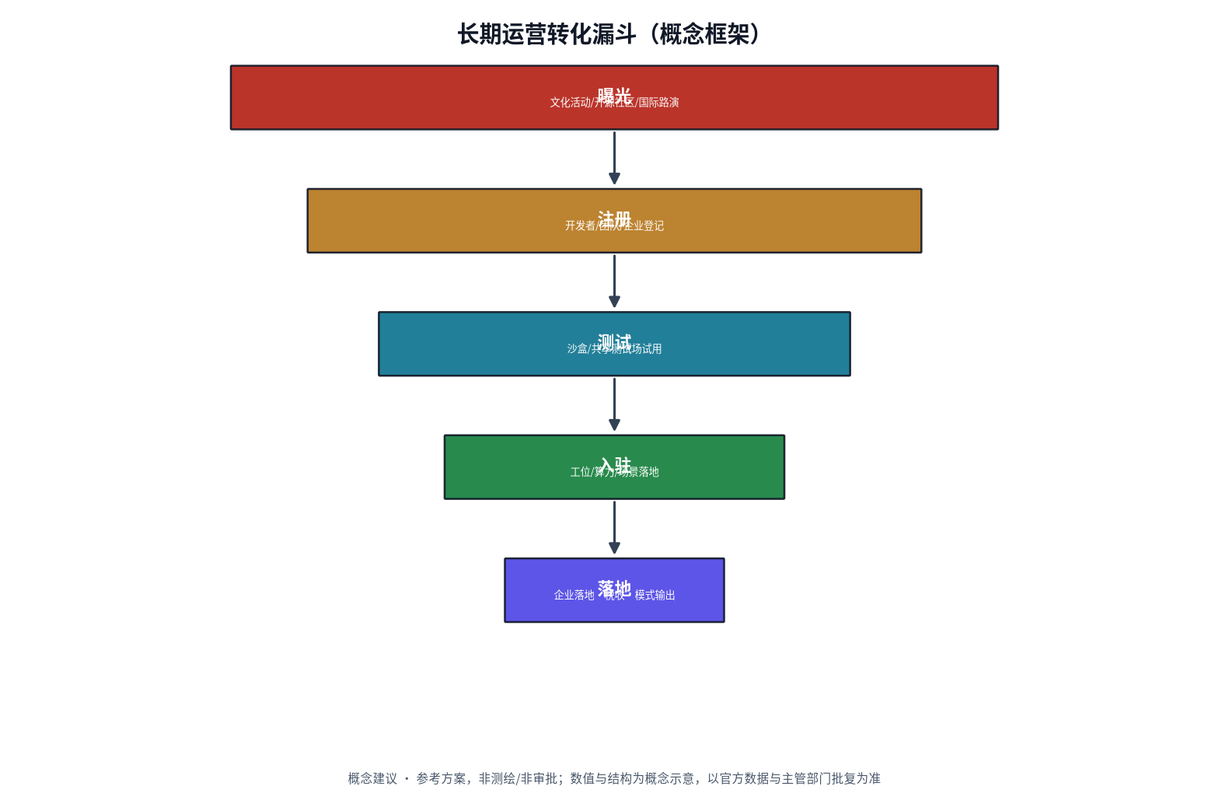
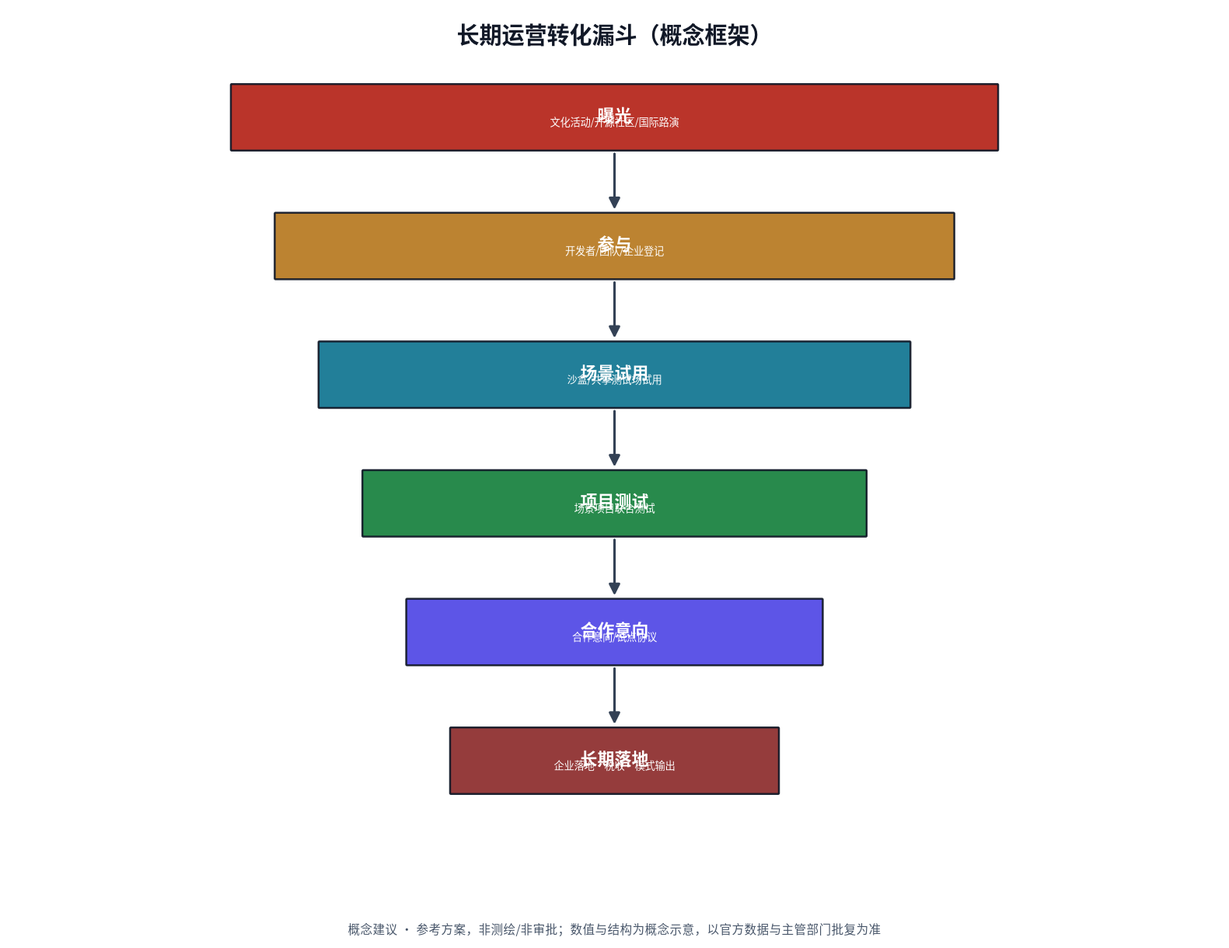
Round 10: JZ 极简实施卡空间锚定 + agent.6 运营机制补强
- JZ-01~06 由 10 列表格改为极简实施卡：每项目独立段落，含空间锚点/阶段/核心动作/责任类型/主要风险/验收方向/概念成本
- 空间锚点具体到站口/河流/遗产节点（大钟寺站13·12号线换乘/清河/京张遗址公园/众智园/原点社区/聚集区，provisional），6 项目不重复
- agent.6 治理架构补发起方/执行方/监督方；转化漏斗改 6 级（曝光→参与→场景试用→项目测试→合作意向→长期落地）；补 KPI 方向（活动参与率/场景响应时间/人工兜底率）与活动频率
- operation_funnel.png 重生成 6 级漏斗；删除 project_matrix.png 孤儿图，manifest 清理
- 保留 Round 7 骨架、算法成果、诚实边界、版权审计
- self_check: formal-review-ready / can_enter_formal_review=YES
- preflight: ok=true, 无 blockers

Changed region(s): [[0.217, 0.2185, 0.7748, 0.8429], [0.186, 0.0, 0.8058, 0.1873], [0.2789, 0.9678, 0.7128, 0.999]]

diff --git a/submissions/927420095-bot/dazhongsi-physarum-network/report/proposal.en.html b/submissions/927420095-bot/dazhongsi-physarum-network/report/proposal.en.html
@@ -398,22 +398,79 @@ code {
 <p><strong>Long-term operation (conceptual suggestion)</strong>: a three-party co-governance model (government + enterprise + community), with a suggestive funding framework (fiscal + renewal special fund + social capital + green bond, to be confirmed). This proposal does not claim to have established governance bodies or locked funding sources.</p>
 <h3>Long-Term Operation Mechanism and Conversion Funnel</h3>
 <blockquote><p>Honest statement: the annual events, developer community, governance architecture, KPIs, and conversion funnel below are all <strong>conceptual suggestions / a suggestive framework</strong>; the frequency, scale, budget, and conversion rates are illustrative, not held events, established governance bodies, or locked funding sources <sup class="evidence evidence-depth" data-evidence-kind="depth" data-evidence-value="phasing_implementation" title="Depth: phasing_implementation">Depth</sup>.</p></blockquote>
-<p><strong>Annual events (conceptual suggestion)</strong>: &quot;Jing-Zhang Railway Culture Festival&quot; (annual, public opening), &quot;Physarum Algorithm Public Workshop&quot; (quarterly, for developers and universities), &quot;Developer Conference&quot; (annual, roadshow and release); the frequency, scale, and budget framework are suggestive, with no existing organizer or date commitment.</p>
+<p><strong>Annual event framework (conceptual suggestion)</strong>: an annual Developer Conference (1×/year, roadshow and release), quarterly Scenario Open Days (4×/year, for developers/universities/the public), and monthly Community Workshops (12×/year, co-build and co-deliberate); the frequency, scale, and budget are suggestive, with no existing organizer or date commitment.</p>
 <p><strong>Developer community (conceptual suggestion)</strong>: open-source contribution guide, computing subsidy, free workstations (limited incubation period); conceptual, with specific rules and subsidy amounts to be confirmed by operators.</p>
-<p><strong>Governance architecture (conceptual suggestion)</strong>: three-party co-governance (government + enterprise + community), with a &quot;consensus + expert advisory&quot; decision mechanism and a suggestive funding framework (fiscal + renewal special fund + social capital + green bond, to be confirmed).</p>
-<p><strong>KPI (conceptual framework)</strong>: near-term (developer count, incubated teams), mid-term (enterprise landing, tax increment), long-term (brand influence, model output); specific values are not preset.</p>
-<p><strong>Conversion funnel (conceptual framework)</strong>: exposure → registration → testing → entry → landing, with each level&#x27;s conversion rate as a conceptual illustration (not measured).</p>
+<p><strong>Governance architecture (conceptual suggestion)</strong>: initiator = government (type), executor = professional operating entity (type), supervisor = community + expert advisory (type), in three-party co-governance; the decision mechanism is &quot;consensus + expert advisory&quot;, with a suggestive funding framework (fiscal + renewal special fund + social capital + green bond, to be confirmed).</p>
+<p><strong>KPI (conceptual framework, directional)</strong>: event participation rate (baseline to be set), scenario response time, manual fallback rate; mid-term (enterprise landing, tax increment), long-term (brand influence, model output); specific values are not preset.</p>
+<p><strong>Conversion funnel (conceptual framework)</strong>: exposure → participation → scenario trial → project testing → cooperation intent → long-term landing, with each level&#x27;s conversion rate as a conceptual illustration (not measured).</p>
 <figure class="proposal-figure"><img src="../assets/figures/operation_funnel.png" alt="Long-term operation conversion funnel (conceptual framework)"><figcaption>Long-term operation conversion funnel (conceptual framework)</figcaption></figure>
-<p>The figure above visualizes the five-level &quot;exposure — registration — testing — entry — landing&quot; conversion relationship; the conversion rates are conceptual illustrations; the quantitative baselines for KPIs and conversion rates are determined only after operational-stage measurement, and this proposal presets no values.</p>
+<p>The figure above visualizes the six-level &quot;exposure — participation — scenario trial — project testing — cooperation intent — long-term landing&quot; conversion relationship; the conversion rates are conceptual illustrations; the quantitative baselines for KPIs and conversion rates are determined only after operational-stage measurement, and this proposal presets no values.</p>
 <h2>Compliance Matrix Overview (agent.1–6 outcome index)</h2>
 <p>The table summarizes where each agent.1–6 dimension outcome lands in this proposal (because submission validation permits only proposal.md/en.md to carry the narrative, each dimension outcome is folded into these sections rather than separate <code>docs/</code> files) <sup class="evidence evidence-depth" data-evidence-kind="depth" data-evidence-value="overall_spatial_structure" title="Depth: overall_spatial_structure">Depth</sup>.</p>
 <div class="proposal-table"><table><thead><tr><th>Dimension</th><th>Outcome</th><th>Section</th></tr></thead><tbody><tr><td>agent.1 Brand &amp; identity</td><td>Name/palette/typography/logo concept/prohibited uses</td><td>&quot;Brand Identity: 智脉共生&quot;</td></tr><tr><td>agent.2 Positioning &amp; functions</td><td>Three positionings / five functions / three-area two-wing</td><td>&quot;Three Positionings, Five Functions, and Three-Area Two-Wing Coordination&quot;</td></tr><tr><td>agent.3 Cases &amp; ecosystem map</td><td>5 smart-city + 5 transport-renewal real cases (merged into a one-page comparison table)</td><td>&quot;Global Benchmark Cases&quot;</td></tr><tr><td>agent.4 Test scenarios</td><td>3 test validation scenarios (TOD/stormwater/community)</td><td>&quot;Test Validation Scenarios&quot;</td></tr><tr><td>agent.5 Landmarks/components/recognition</td><td>3 landmarks + component system + recognition mechanism</td><td>&quot;Landmarks, Component System, and Recognition Mechanism&quot;</td></tr><tr><td>agent.6 Culture/international/events/operation</td><td>Bilingual wayfinding + elevator pitch + annual events + three-party co-governance</td><td>&quot;Cultural Wayfinding, International Narrative, Annual Events, and Long-term Operation&quot;</td></tr><tr><td>agent.7 Accessibility enhancement (Round 5)</td><td>Four-layer architecture / data schema / routing &amp; dispatch engine / deployment framework</td><td>&quot;Accessible Smart Governance and Navigation Integration Outlook&quot; + Appendices A/B</td></tr></tbody></table></div>
-<h2>Six Renewal-Project Implementation Cards (9 fields; conceptual suggestion)</h2>
-<blockquote><p>This card is a conceptual suggestion / reference proposal / for professional teams&#x27; further study, and does not constitute a formal engineering document.</p></blockquote>
-<p>The six cards below complete the 9 project-management fields (responsible-entity type, partner, precondition, stage, resource level, risk, reversible measure, acceptance metric, stop condition). Responsible entities and partners are written only as <strong>entity types</strong>, not fabricated names; stage/resource/risk are suggestive <sup class="evidence evidence-depth" data-evidence-kind="depth" data-evidence-value="renewal_project_list" title="Depth: renewal_project_list">Depth</sup> <sup class="evidence evidence-depth" data-evidence-kind="depth" data-evidence-value="phasing_implementation" title="Depth: phasing_implementation">Depth</sup>.</p>
-<div class="proposal-table"><table><thead><tr><th>Project</th><th>Responsible type</th><th>Partner (type)</th><th>Precondition</th><th>Stage</th><th>Resource</th><th>Risk</th><th>Reversible measure</th><th>Acceptance metric</th><th>Stop condition</th></tr></thead><tbody><tr><td>JZ-01 Slow-gap stitching</td><td>Government (district transport) + park operator</td><td>Municipal construction unit (conceptual)</td><td>Road redline, under-bridge permit, traffic review</td><td>Concept → scheme design</td><td>Medium</td><td>Ownership dispute, policy change</td><td>Temporary connectors removable, site restored</td><td>Slow connectivity + accessibility per GB 50763-2012</td><td>Pause if under-bridge ownership cannot be settled</td></tr><tr><td>JZ-02 Qinghe innovation interface</td><td>Government (district water) + park</td><td>Hydraulic design unit (conceptual)</td><td>River blue line, flood evaluation, ecological permit</td><td>Concept → scheme design</td><td>Medium</td><td>Flood conditions, cost overrun</td><td>Waterfront facilities removable, original revetment kept</td><td>Blue-green connectivity + stormwater resilience</td><td>Exit if flood conditions are unmet</td></tr><tr><td>JZ-03 Campus-facing conversion street</td><td>Government (district sci-tech) + university</td><td>University + social capital (conceptual)</td><td>Campus boundary, ownership, ground-floor approval</td><td>Concept → scheme design</td><td>Medium</td><td>Ownership dispute, heritage dispute</td><td>Ground-floor use reversible, no structural change</td><td>Conversion space activated + ground-floor cleared</td><td>Pause if ownership dispute is unresolved</td></tr><tr><td>JZ-04 Dazhongsi four-quadrant connectivity</td><td>State-owned (rail operator) + government</td><td>Rail company + municipal design unit (conceptual)</td><td>Station integration plan, utility relocation, fire review</td><td>Concept → engineering deepening</td><td>High</td><td>Approval uncertainty, utility conflict</td><td>Quadrant-by-quadrant phased, unimplemented quadrants kept</td><td>Four-quadrant connectivity + accessible interchange</td><td>Postpone if station timing mismatches</td></tr><tr><td>JZ-05 Edge-computing node</td><td>Social capital + government (district sci-tech)</td><td>Computing operator (conceptual)</td><td>Energy, computing, security, operator confirmed</td><td>Concept → operation</td><td>High</td><td>Technical failure, compliance</td><td>Devices removable, space restored to public use</td><td>Computing open + security audit passed</td><td>Exit if no operator</td></tr><tr><td>JZ-06 Physarum network deepening &amp; recalculation</td><td>Government + university (designer)</td><td>University research team (conceptual)</td><td>Official boundary, road redline, real-coordinate alignment</td><td>Concept → ongoing research</td><td>Low</td><td>Official data long missing</td><td>Not landed as engineering; stays research-scope</td><td>Full recalculation once official data arrives</td><td>Keep &quot;to be confirmed&quot; if official data long unpublished</td></tr></tbody></table></div>
-<figure class="proposal-figure"><img src="../assets/figures/project_matrix.png" alt="Renewal-project full-field matrix (6 projects × 9 fields, conceptual)"><figcaption>Renewal-project full-field matrix (6 projects × 9 fields, conceptual)</figcaption></figure>
-<p>The figure above visualizes the nine-field matrix, enabling quick review of each project&#x27;s responsible entity, risk, reversible measure, and stop condition; the fields are all conceptual suggestions, and responsible entities are written only as entity types, never fabricated names <sup class="evidence evidence-depth" data-evidence-kind="depth" data-evidence-value="renewal_project_list" title="Depth: renewal_project_list">Depth</sup>.</p>
+<h2>Six Renewal-Project Implementation Cards (minimal cards; conceptual suggestion)</h2>
+<blockquote><p>These cards are conceptual suggestions / reference proposals and do not constitute a formal engineering document; responsible entities are written only as <strong>entity types</strong>, never fabricated names; road/station/node names are provisional conceptual placement, to be verified against official data.</p></blockquote>
+<p>The six cards below give each project&#x27;s <strong>spatial anchor</strong> (which road/station/node it sits on), stage, core action, responsible type, main risk, acceptance direction, and conceptual cost level; all are suggestive, subject to the regulatory plan and the competent authority&#x27;s approval <sup class="evidence evidence-depth" data-evidence-kind="depth" data-evidence-value="renewal_project_list" title="Depth: renewal_project_list">Depth</sup> <sup class="evidence evidence-depth" data-evidence-kind="depth" data-evidence-value="phasing_implementation" title="Depth: phasing_implementation">Depth</sup>.</p>
+<p><strong>JZ-01 Jing-Zhang Heritage Park slow-gap stitching</strong></p>
+<ul>
+<li>Spatial anchor: both sides of the Jing-Zhang Railway Heritage Park (Phase I), the Jing-Zhang Railway × slow-loop crossing segment (provisional)</li>
+<li>Stage: near-term (pilot)</li>
+<li>Core action: stitch slow-travel gaps; add accessible ramps and bilingual wayfinding; restore a continuous walking path</li>
+<li>Responsible type: street coordination + park operator (type only, no specific names)</li>
+<li>Main risk: multiple property interfaces (railway/park/municipal) require further verification</li>
+<li>Acceptance direction: continuous-walking accessibility improvement, assessed once a current-state baseline is set</li>
+<li>Conceptual cost: medium (conceptual estimate only)</li>
+</ul>
+<p><strong>JZ-02 Zhongzhiyuan Qinghe innovation interface</strong></p>
+<ul>
+<li>Spatial anchor: Zhongzhiyuan&#x27;s Qinghe riverfront segment (north wing, south of the Qinghe blue line; provisional)</li>
+<li>Stage: mid-term</li>
+<li>Core action: waterfront blue-green connection + low-impact-development stormwater system + flood-resilience retrofit</li>
+<li>Responsible type: district water authority + park (type only, no specific names)</li>
+<li>Main risk: exit if the river blue line or flood conditions are unmet</li>
+<li>Acceptance direction: blue-green corridor connected + stormwater-resilience targets met, once baseline is set</li>
+<li>Conceptual cost: medium (conceptual estimate only)</li>
+</ul>
+<p><strong>JZ-03 Yuan Dian community campus-facing conversion street</strong></p>
+<ul>
+<li>Spatial anchor: the Beijing AI Yuan Dian Community campus–park interface (central zone; provisional)</li>
+<li>Stage: near-term</li>
+<li>Core action: activate ground-floor programs + bring conversion space into use</li>
+<li>Responsible type: university + district sci-tech authority (type only, no specific names)</li>
+<li>Main risk: pause if campus-boundary or ground-floor ownership disputes are unresolved</li>
+<li>Acceptance direction: conversion space activated + ground-floor ownership cleared</li>
+<li>Conceptual cost: medium (conceptual estimate only)</li>
+</ul>
+<p><strong>JZ-04 Dazhongsi Station four-quadrant walking connectivity</strong></p>
+<ul>
+<li>Spatial anchor: the Dazhongsi Station Line 13 / Line 12 interchange node, four quadrants (station catchment)</li>
+<li>Stage: mid-term</li>
+<li>Core action: four-quadrant walking connection + accessible interchange + station integration</li>
+<li>Responsible type: rail operator + district transport authority (type only, no specific names)</li>
+<li>Main risk: station retrofit timing and municipal utility relocation uncertainty</li>
+<li>Acceptance direction: four-quadrant walking connection + accessible interchange, once baseline is set</li>
+<li>Conceptual cost: high (conceptual estimate only)</li>
+</ul>
+<p><strong>JZ-05 AI public service and edge-computing node</strong></p>
+<ul>
+<li>Spatial anchor: the Dazhongsi AI Industry Cluster gateway (south zone, adjacent to Dazhongsi Station; provisional)</li>
+<li>Stage: long-term (governance)</li>
+<li>Core action: deploy edge-computing nodes, open public services, pass security compliance audit</li>
+<li>Responsible type: district sci-tech authority + operator (type only, no specific names)</li>
+<li>Main risk: exit if energy/computing/security/operator is absent</li>
+<li>Acceptance direction: computing service open + security compliance audit passed</li>
+<li>Conceptual cost: high (conceptual estimate only)</li>
+</ul>
+<p><strong>JZ-06 Physarum network deepening and on-site recalculation</strong></p>
+<ul>
+<li>Spatial anchor: along the conceptual network&#x27;s main vein ROAD-001 (site-wide, pending official boundary and road-redline alignment)</li>
+<li>Stage: long-term (ongoing research)</li>
+<li>Core action: full recalculation and layer update once official data arrives</li>
+<li>Responsible type: designer + university (type only, no specific names)</li>
+<li>Main risk: official data long missing; keep a &quot;to be confirmed&quot; caveat</li>
+<li>Acceptance direction: full recalculation passed once official data arrives</li>
+<li>Conceptual cost: low / unknown (research-scope; conceptual estimate only)</li>
+</ul>
 <h2>Rights and Source Audit Table (source &amp; license)</h2>
 <p>The table maps this proposal&#x27;s assets to source and license status; licenses are publicly verifiable common licenses, subject to the asset&#x27;s original text <sup class="evidence evidence-source" data-evidence-kind="source" data-evidence-value="SITE-PACKAGE" title="Source: SITE-PACKAGE">Source</sup>.</p>
 <div class="proposal-table"><table><thead><tr><th>Asset</th><th>Type</th><th>Source</th><th>License</th><th>Registry status</th></tr></thead><tbody><tr><td>Noto Sans SC (Source Han Sans) subset</td><td>Font</td><td>Google Fonts / OFL</td><td>OFL 1.1</td><td>Formal (embedded as base64, no remote dependency)</td></tr><tr><td>OpenStreetMap network/nodes</td><td>Map data</td><td>openstreetmap.org / Overpass API</td><td>ODbL</td><td>Background (trust C, &quot;OSM © contributors&quot;)</td></tr><tr><td>pymoo (NSGA-II)</td><td>Code</td><td>pymoo 0.6.2</td><td>Apache-2.0 (referenced, unmodified)</td><td>Formal</td></tr><tr><td>NetworkX</td><td>Code</td><td>networkx 3.6.1</td><td>BSD-3-Clause</td><td>Formal</td></tr><tr><td>Self-developed Physarum/objective code</td><td>Code</td><td>Author</td><td>MIT (to confirm before declaration)</td><td>Formal</td></tr><tr><td>Tero et al. 2010</td><td>Literature</td><td>Science 327:439–442, DOI 10.1126/science.1177894</td><td>Citation-compliant (not full-text reproduction)</td><td>Formal</td></tr><tr><td>Icons/illustrations</td><td>Image</td><td>Self-generated (matplotlib)</td><td>Self-generated, no third-party authorization</td><td>Formal</td></tr><tr><td>Accessibility framework code (routing_engine / dispatch_service)</td><td>Code</td><td>Author (concept prototype)</td><td>MIT (to confirm)</td><td>Formal</td></tr><tr><td>Accessibility feature schema + node overlay</td><td>Data</td><td>Derived from <code>verified_nodes.json</code></td><td>ODbL (underlying OSM); overlay marked provisional</td><td>Background (conceptual)</td></tr><tr><td>Accessibility penalty coefficients / perception parameters</td><td>Parameters</td><td>Conceptual suggestion values (not measured)</td><td>N/A</td><td>Conceptual suggestion</td></tr></tbody></table></div>

diff --git a/submissions/927420095-bot/dazhongsi-physarum-network/report/proposal.html b/submissions/927420095-bot/dazhongsi-physarum-network/report/proposal.html
@@ -398,22 +398,79 @@ code {
 <p><strong>长期运营（概念建议）</strong>：三方共治模型（政府 + 企业 + 社区），资金来源框架为建议性（财政 + 更新专项资金 + 社会资本 + 绿色债券，待确认）。本方案不声称已建立治理主体或锁定资金来源。</p>
 <h3>长期运营机制与转化漏斗</h3>
 <blockquote><p>诚实声明：以下年度活动、开发者社区、治理架构、KPI 与转化漏斗均为<strong>概念建议 / 建议性框架</strong>，频率、规模、预算与转化率均为示意，非已举办活动、非已建立治理主体或锁定资金来源 <sup class="evidence evidence-depth" data-evidence-kind="depth" data-evidence-value="phasing_implementation" title="深度：phasing_implementation">深度</sup>。</p></blockquote>
-<p><strong>年度活动（概念建议）</strong>：「京张铁路文化节」（年度，公众开放）、「黏菌算法公开工作坊」（季度，面向开发者与高校）、「开发者大会」（年度，路演与发布）；频率、规模与预算框架为建议性，无既有主办方或日期承诺。</p>
+<p><strong>年度活动框架（概念建议）</strong>：年度开发者大会（1 次/年，路演与发布）、季度场景开放日（4 次/年，面向开发者/高校/公众）、月度社区工作坊（12 次/年，共建共议）；频率、规模与预算为建议性，无既有主办方或日期承诺。</p>
 <p><strong>开发者社区（概念建议）</strong>：开源贡献指南、算力补贴、免费工位（限定孵化期）；为概念建议，具体规则与补贴额度待运营主体确认。</p>
-<p><strong>治理架构（概念建议）</strong>：三方共治（政府 + 企业 + 社区），决策机制为「共识 + 专家顾问」，资金来源框架为建议性（财政 + 更新专项资金 + 社会资本 + 绿色债券，待确认）。</p>
-<p><strong>KPI（概念框架）</strong>：近期（开发者数、孵化团队数）、中期（企业落地、税收增量）、远期（品牌影响、模式输出）；具体指标值不预设。</p>
-<p><strong>转化漏斗（概念框架）</strong>：曝光 → 注册 → 测试 → 入驻 → 落地，每级转化率为概念示意（非实测）。</p>
+<p><strong>治理架构（概念建议）</strong>：发起方为政府（类型）、执行方为专业运营主体（类型）、监督方为社区与专家顾问（类型），三方共治；决策机制为「共识 + 专家顾问」，资金来源框架为建议性（财政 + 更新专项资金 + 社会资本 + 绿色债券，待确认）。</p>
+<p><strong>KPI（概念框架，方向性）</strong>：活动参与率（待基线）、场景响应时间、人工兜底率；中期（企业落地、税收增量）、远期（品牌影响、模式输出）；具体指标值不预设。</p>
+<p><strong>转化漏斗（概念框架）</strong>：曝光 → 参与 → 场景试用 → 项目测试 → 合作意向 → 长期落地，每级转化率为概念示意（非实测）。</p>
 <figure class="proposal-figure"><img src="../assets/figures/operation_funnel.png" alt="长期运营转化漏斗图（概念框架）"><figcaption>长期运营转化漏斗图（概念框架）</figcaption></figure>
-<p>上图把「曝光—注册—测试—入驻—落地」五级转化关系可视化，转化率为概念示意；KPI 与转化率的量化基线待运营阶段实测后确定，本方案不预设数值。</p>
+<p>上图把「曝光—参与—场景试用—项目测试—合作意向—长期落地」六级转化关系可视化，转化率为概念示意；KPI 与转化率的量化基线待运营阶段实测后确定，本方案不预设数值。</p>
 <h2>合规矩阵总览（agent.1–6 成果索引）</h2>
 <p>下表汇总 agent.1–6 各维度专属成果在本提案中的落点（因提交包校验仅允许 proposal.md/en.md 承载正文，故各维度成果折叠为本节各章节，而非独立 <code>docs/</code> 文件）<sup class="evidence evidence-depth" data-evidence-kind="depth" data-evidence-value="overall_spatial_structure" title="深度：overall_spatial_structure">深度</sup>。</p>
 <div class="proposal-table"><table><thead><tr><th>维度</th><th>专属成果</th><th>落点章节</th></tr></thead><tbody><tr><td>agent.1 品牌与识别</td><td>品牌名/色板/字体/Logo 概念/禁止用法</td><td>「品牌识别：智脉共生」</td></tr><tr><td>agent.2 定位与功能</td><td>三大定位/五大功能/三区两翼</td><td>「三大定位、五大功能与三区两翼协同」</td></tr><tr><td>agent.3 案例与生态图谱</td><td>5 智慧城市类 + 5 交通更新类真实案例（合并为一页对照表）</td><td>「全球标杆案例借鉴」</td></tr><tr><td>agent.4 测试场景</td><td>3 个测试验证场景（TOD/雨洪/社区）</td><td>「测试验证场景」</td></tr><tr><td>agent.5 地标/组件/荣誉</td><td>3 地标 + 组件系统 + 荣誉机制</td><td>「地标、组件系统与荣誉机制」</td></tr><tr><td>agent.6 文化/国际/活动/运营</td><td>双语导视 + elevator pitch + 年度活动 + 三方共治</td><td>「文化导视、国际叙事、年度活动与长期运营」</td></tr><tr><td>agent.7 无障碍增强（Round 5）</td><td>四层架构 / 数据 Schema / 路由与派单引擎 / 部署框架</td><td>「无障碍智能治理与导航集成展望」+ 附录 A/B</td></tr></tbody></table></div>
-<h2>六张更新项目实施卡（9 字段，概念建议）</h2>
-<blockquote><p>本卡片为概念建议 / 参考方案 / 可供专业团队深化研究，不构成正式工程文件。</p></blockquote>
-<p>以下 6 张实施卡补全项目管理 9 字段（责任主体类型、合作方、前置条件、阶段、资源等级、风险、可逆措施、验收指标、停止条件）。责任主体与合作方仅写<strong>单位类型</strong>，不编造具体单位名称；阶段/资源/风险为建议性 <sup class="evidence evidence-depth" data-evidence-kind="depth" data-evidence-value="renewal_project_list" title="深度：renewal_project_list">深度</sup> <sup class="evidence evidence-depth" data-evidence-kind="depth" data-evidence-value="phasing_implementation" title="深度：phasing_implementation">深度</sup>。</p>
-<div class="proposal-table"><table><thead><tr><th>项目</th><th>责任主体类型</th><th>合作方（类型）</th><th>前置条件</th><th>阶段</th><th>资源等级</th><th>风险</th><th>可逆措施</th><th>验收指标</th><th>停止条件</th></tr></thead><tbody><tr><td>JZ-01 慢行断点缝合</td><td>政府（区交通委）+ 公园管理单位</td><td>市属市政建设单位（概念建议）</td><td>道路红线、桥下空间许可、交通复核</td><td>概念研究→方案设计</td><td>中</td><td>权属争议、政策变动</td><td>临时连接设施可拆除，恢复原状</td><td>慢行连通 + 无障碍达标（GB 50763-2012）</td><td>桥下空间权属无法落定即暂停</td></tr><tr><td>JZ-02 清河创新界面</td><td>政府（区水务局）+ 园区</td><td>水利设计单位（概念建议）</td><td>河道蓝线、防洪评价、生态许可</td><td>概念研究→方案设计</td><td>中</td><td>防洪条件、资金超支</td><td>滨水设施可拆除，保留原始驳岸</td><td>蓝绿连通 + 雨洪韧性达标</td><td>防洪条件不满足即退出</td></tr><tr><td>JZ-03 近校成果转化街</td><td>政府（区科信局）+ 高校</td><td>高校 + 社会资本（概念建议）</td><td>校区边界、权属、首层业态审批</td><td>概念研究→方案设计</td><td>中</td><td>权属争议、遗产争议</td><td>首层业态可恢复，不改变建筑结构</td><td>转化空间启用 + 首层清权</td><td>权属争议未决即暂停</td></tr><tr><td>JZ-04 大钟寺站四象限连通</td><td>国企（轨道运营单位）+ 政府</td><td>轨道公司 + 市政设计单位（概念建议）</td><td>站点一体化方案、管线迁改、消防审查</td><td>概念研究→工程深化</td><td>高</td><td>审批不确定、管线冲突</td><td>分象限渐进实施，未实施象限保留现状</td><td>四象限连通 + 无障碍换乘</td><td>站点改造时序不匹配即顺延</td></tr><tr><td>JZ-05 端侧算力节点</td><td>社会资本 + 政府（区科信局）</td><td>算力运营主体（概念建议）</td><td>能源、算力、安全、运营主体确认</td><td>概念研究→运营</td><td>高</td><td>技术失效、安全合规</td><td>算力设备可拆除，空间恢复公共用途</td><td>算力开放 + 安全审计通过</td><td>运营主体缺位即退出</td></tr><tr><td>JZ-06 黏菌路网深化复算</td><td>政府 + 高校（设计方）</td><td>高校科研团队（概念建议）</td><td>官方边界、道路红线、真实坐标对齐</td><td>概念研究→持续研究</td><td>低</td><td>官方数据长期缺失</td><td>不落地为工程，保持研究口径</td><td>官方数据到位后全量复算</td><td>官方数据长期未发布即保持「待确认」</td></tr></tbody></table></div>
-<figure class="proposal-figure"><img src="../assets/figures/project_matrix.png" alt="更新项目完整字段矩阵图（6 项目 × 9 字段，概念）"><figcaption>更新项目完整字段矩阵图（6 项目 × 9 字段，概念）</figcaption></figure>
-<p>上图把上表 9 字段矩阵可视化，便于快速审阅各项目的责任主体、风险、可逆措施与停止条件；字段内容均为概念建议，责任主体仅写单位类型，不编造具体单位名称 <sup class="evidence evidence-depth" data-evidence-kind="depth" data-evidence-value="renewal_project_list" title="深度：renewal_project_list">深度</sup>。</p>
+<h2>六张更新项目实施卡（极简实施卡，概念建议）</h2>
+<blockquote><p>本卡片为概念建议 / 参考方案，不构成正式工程文件；责任主体只写<strong>单位类型</strong>，不编造具体单位名称；道路/站口/节点名称均为 provisional 概念落位，待官方数据核实。</p></blockquote>
+<p>以下 6 张实施卡给出每个项目的<strong>空间锚点</strong>（落在哪条路/站口/节点）、阶段、核心动作、责任类型、主要风险、验收方向与概念成本等级；均为建议性，具体以控规与主管部门批复为准 <sup class="evidence evidence-depth" data-evidence-kind="depth" data-evidence-value="renewal_project_list" title="深度：renewal_project_list">深度</sup> <sup class="evidence evidence-depth" data-evidence-kind="depth" data-evidence-value="phasing_implementation" title="深度：phasing_implementation">深度</sup>。</p>
+<p><strong>JZ-01 京张遗址公园慢行断点缝合</strong></p>
+<ul>
+<li>空间锚点：京张铁路遗址公园一期两侧（京张铁路与慢行环交叉段，provisional）</li>
+<li>阶段：近期（试点）</li>
+<li>核心动作：缝合慢行断点，增设无障碍坡道与双语导视，恢复连续步行路径</li>
+<li>责任类型：街道协调 + 公园管理单位（类型，不写具体单位）</li>
+<li>主要风险：涉及铁路/公园/市政多产权界面，需进一步核实</li>
+<li>验收方向：连续步行无障碍性改善，待现状基线确定后评估</li>
+<li>概念成本：中（conceptual estimate only）</li>
+</ul>
+<p><strong>JZ-02 众智园清河创新界面</strong></p>
+<ul>
+<li>空间锚点：众智园临清河段（北翼，清河蓝线南侧，provisional）</li>
+<li>阶段：中期</li>
+<li>核心动作：滨水蓝绿贯通 + 低影响开发雨水系统 + 雨洪韧性改造</li>
+<li>责任类型：区水务局 + 园区（类型，不写具体单位）</li>
+<li>主要风险：河道蓝线与防洪条件不满足即退出</li>
+<li>验收方向：蓝绿廊道连通 + 雨洪韧性指标达标，待基线确定</li>
+<li>概念成本：中（conceptual estimate only）</li>
+</ul>
+<p><strong>JZ-03 原点社区近校成果转化街</strong></p>
+<ul>
+<li>空间锚点：北京AI原点社区校区-园区界面（中区，provisional）</li>
+<li>阶段：近期</li>
+<li>核心动作：首层业态活化 + 成果转化空间启用</li>
+<li>责任类型：高校 + 区科信局（类型，不写具体单位）</li>
+<li>主要风险：校区边界与首层权属争议未决则暂停</li>
+<li>验收方向：转化空间启用 + 首层业态清权</li>
+<li>概念成本：中（conceptual estimate only）</li>
+</ul>
+<p><strong>JZ-04 大钟寺站四象限步行连通</strong></p>
+<ul>
+<li>空间锚点：大钟寺站 13号线/12号线换乘节点四象限（站点辐射区）</li>
+<li>阶段：中期</li>
+<li>核心动作：四象限步行连通 + 无障碍换乘 + 站点一体化</li>
+<li>责任类型：轨道运营单位 + 区交通委（类型，不写具体单位）</li>
+<li>主要风险：站点改造时序与市政管线迁改不确定性</li>
+<li>验收方向：四象限步行连通 + 无障碍换乘达标，待基线确定</li>
+<li>概念成本：高（conceptual estimate only）</li>
+</ul>
+<p><strong>JZ-05 AI公共服务与端侧算力节点</strong></p>
+<ul>
+<li>空间锚点：大钟寺AI产业聚集区门户（南区，邻近大钟寺站，provisional）</li>
+<li>阶段：长期（治理）</li>
+<li>核心动作：部署端侧算力节点，开放公共服务，安全合规审计</li>
+<li>责任类型：区科信局 + 运营主体（类型，不写具体单位）</li>
+<li>主要风险：能源/算力/安全/运营主体缺位则退出</li>
+<li>验收方向：算力服务开放 + 安全合规审计通过</li>
+<li>概念成本：高（conceptual estimate only）</li>
+</ul>
+<p><strong>JZ-06 黏菌路网概念深化与真实场地复算</strong></p>
+<ul>
+<li>空间锚点：概念路网主静脉 ROAD-001 沿线（全场，待官方边界与道路红线对齐）</li>
+<li>阶段：长期（持续研究）</li>
+<li>核心动作：官方数据到位后全量复算并更新图层</li>
+<li>责任类型：设计方 + 高校（类型，不写具体单位）</li>
+<li>主要风险：官方数据长期缺失，保持「待确认」口径</li>
+<li>验收方向：官方数据到位后全量复算通过</li>
+<li>概念成本：低 / unknown（研究性，conceptual estimate only）</li>
+</ul>
 <h2>权利与来源审计表（agent 来源与许可）</h2>
 <p>下表把本方案资产映射到来源与许可状态；许可证为公开可查证的常见许可，具体以资产原文为准 <sup class="evidence evidence-source" data-evidence-kind="source" data-evidence-value="SITE-PACKAGE" title="来源：SITE-PACKAGE">来源</sup>。</p>
 <div class="proposal-table"><table><thead><tr><th>资产</th><th>类型</th><th>来源</th><th>许可</th><th>Registry 状态</th></tr></thead><tbody><tr><td>Noto Sans SC（思源黑体）子集</td><td>字体</td><td>Google Fonts / OFL</td><td>OFL 1.1</td><td>正式（已内嵌为 base64，无远程依赖）</td></tr><tr><td>OpenStreetMap 路网/节点</td><td>地图数据</td><td>openstreetmap.org / Overpass API</td><td>ODbL</td><td>背景（trust C，标注 OSM © contributors）</td></tr><tr><td>pymoo（NSGA-II）</td><td>代码</td><td>pymoo 0.6.2</td><td>Apache-2.0（本方案以引用方式使用，未修改）</td><td>正式</td></tr><tr><td>NetworkX</td><td>代码</td><td>networkx 3.6.1</td><td>BSD-3-Clause</td><td>正式</td></tr><tr><td>自研 Physarum/目标函数代码</td><td>代码</td><td>作者自研</td><td>MIT（待作者确认后声明）</td><td>正式</td></tr><tr><td>Tero et al. 2010</td><td>文献</td><td>Science 327:439–442, DOI 10.1126/science.1177894</td><td>引用合规（非转载全文）</td><td>正式</td></tr><tr><td>图标/插图</td><td>图片</td><td>自生成（matplotlib）</td><td>自生成，无第三方授权</td><td>正式</td></tr><tr><td>无障碍框架代码（routing_engine / dispatch_service）</td><td>代码</td><td>作者自研（概念原型）</td><td>MIT（待作者确认）</td><td>正式</td></tr><tr><td>无障碍要素 Schema + 节点叠加层</td><td>数据</td><td>基于 <code>verified_nodes.json</code> 衍生</td><td>ODbL（底层 OSM）；叠加层标注 provisional</td><td>背景（conceptual）</td></tr><tr><td>无障碍惩罚系数 / 感知参数</td><td>参数</td><td>概念建议值（非实测）</td><td>不适用</td><td>概念建议</td></tr></tbody></table></div>

diff --git a/submissions/927420095-bot/dazhongsi-physarum-network/proposal.en.md b/submissions/927420095-bot/dazhongsi-physarum-network/proposal.en.md
@@ -671,19 +671,19 @@ The figure above is a spatial-function synergy sketch of "three positionings × 
 
 > Honest statement: the annual events, developer community, governance architecture, KPIs, and conversion funnel below are all **conceptual suggestions / a suggestive framework**; the frequency, scale, budget, and conversion rates are illustrative, not held events, established governance bodies, or locked funding sources [depth:phasing_implementation].
 
-**Annual events (conceptual suggestion)**: "Jing-Zhang Railway Culture Festival" (annual, public opening), "Physarum Algorithm Public Workshop" (quarterly, for developers and universities), "Developer Conference" (annual, roadshow and release); the frequency, scale, and budget framework are suggestive, with no existing organizer or date commitment.
+**Annual event framework (conceptual suggestion)**: an annual Developer Conference (1×/year, roadshow and release), quarterly Scenario Open Days (4×/year, for developers/universities/the public), and monthly Community Workshops (12×/year, co-build and co-deliberate); the frequency, scale, and budget are suggestive, with no existing organizer or date commitment.
 
 **Developer community (conceptual suggestion)**: open-source contribution guide, computing subsidy, free workstations (limited incubation period); conceptual, with specific rules and subsidy amounts to be confirmed by operators.
 
-**Governance architecture (conceptual suggestion)**: three-party co-governance (government + enterprise + community), with a "consensus + expert advisory" decision mechanism and a suggestive funding framework (fiscal + renewal special fund + social capital + green bond, to be confirmed).
+**Governance architecture (conceptual suggestion)**: initiator = government (type), executor = professional operating entity (type), supervisor = community + expert advisory (type), in three-party co-governance; the decision mechanism is "consensus + expert advisory", with a suggestive funding framework (fiscal + renewal special fund + social capital + green bond, to be confirmed).
 
-**KPI (conceptual framework)**: near-term (developer count, incubated teams), mid-term (enterprise landing, tax increment), long-term (brand influence, model output); specific values are not preset.
+**KPI (conceptual framework, directional)**: event participation rate (baseline to be set), scenario response time, manual fallback rate; mid-term (enterprise landing, tax increment), long-term (brand influence, model output); specific values are not preset.
 
-**Conversion funnel (conceptual framework)**: exposure → registration → testing → entry → landing, with each level's conversion rate as a conceptual illustration (not measured).
+**Conversion funnel (conceptual framework)**: exposure → participation → scenario trial → project testing → cooperation intent → long-term landing, with each level's conversion rate as a conceptual illustration (not measured).
 
 ![Long-term operation conversion funnel (conceptual framework)](assets/figures/operation_funnel.png)
 
-The figure above visualizes the five-level "exposure — registration — testing — entry — landing" conversion relationship; the conversion rates are conceptual illustrations; the quantitative baselines for KPIs and conversion rates are determined only after operational-stage measurement, and this proposal presets no values.
+The figure above visualizes the six-level "exposure — participation — scenario trial — project testing — cooperation intent — long-term landing" conversion relationship; the conversion rates are conceptual illustrations; the quantitative baselines for KPIs and conversion rates are determined only after operational-stage measurement, and this proposal presets no values.
 
 ## Compliance Matrix Overview (agent.1–6 outcome index)
 
@@ -699,24 +699,65 @@ The table summarizes where each agent.1–6 dimension outcome lands in this prop
 | agent.6 Culture/international/events/operation | Bilingual wayfinding + elevator pitch + annual events + three-party co-governance | "Cultural Wayfinding, International Narrative, Annual Events, and Long-term Operation" |
 | agent.7 Accessibility enhancement (Round 5) | Four-layer architecture / data schema / routing & dispatch engine / deployment framework | "Accessible Smart Governance and Navigation Integration Outlook" + Appendices A/B |
 
-## Six Renewal-Project Implementation Cards (9 fields; conceptual suggestion)
+## Six Renewal-Project Implementation Cards (minimal cards; conceptual suggestion)
 
-> This card is a conceptual suggestion / reference proposal / for professional teams' further study, and does not constitute a formal engineering document.
+> These cards are conceptual suggestions / reference proposals and do not constitute a formal engineering document; responsible entities are written only as **entity types**, never fabricated names; road/station/node names are provisional conceptual placement, to be verified against official data.
 
-The six cards below complete the 9 project-management fields (responsible-entity type, partner, precondition, stage, resource level, risk, reversible measure, acceptance metric, stop condition). Responsible entities and partners are written only as **entity types**, not fabricated names; stage/resource/risk are suggestive [depth:renewal_project_list] [depth:phasing_implementation].
+The six cards below give each project's **spatial anchor** (which road/station/node it sits on), stage, core action, responsible type, main risk, acceptance direction, and conceptual cost level; all are suggestive, subject to the regulatory plan and the competent authority's approval [depth:renewal_project_list] [depth:phasing_implementation].
 
-| Project | Responsible type | Partner (type) | Precondition | Stage | Resource | Risk | Reversible measure | Acceptance metric | Stop condition |
-| --- | --- | --- | --- | --- | --- | --- | --- | --- | --- |
-| JZ-01 Slow-gap stitching | Government (district transport) + park operator | Municipal construction unit (conceptual) | Road redline, under-bridge permit, traffic review | Concept → scheme design | Medium | Ownership dispute, policy change | Temporary connectors removable, site restored | Slow connectivity + accessibility per GB 50763-2012 | Pause if under-bridge ownership cannot be settled |
-| JZ-02 Qinghe innovation interface | Government (district water) + park | Hydraulic design unit (conceptual) | River blue line, flood evaluation, ecological permit | Concept → scheme design | Medium | Flood conditions, cost overrun | Waterfront facilities removable, original revetment kept | Blue-green connectivity + stormwater resilience | Exit if flood conditions are unmet |
-| JZ-03 Campus-facing conversion street | Government (district sci-tech) + university | University + social capital (conceptual) | Campus boundary, ownership, ground-floor approval | Concept → scheme design | Medium | Ownership dispute, heritage dispute | Ground-floor use reversible, no structural change | Conversion space activated + ground-floor cleared | Pause if ownership dispute is unresolved |
-| JZ-04 Dazhongsi four-quadrant connectivity | State-owned (rail operator) + government | Rail company + municipal design unit (conceptual) | Station integration plan, utility relocation, fire review | Concept → engineering deepening | High | Approval uncertainty, utility conflict | Quadrant-by-quadrant phased, unimplemented quadrants kept | Four-quadrant connectivity + accessible interchange | Postpone if station timing mismatches |
-| JZ-05 Edge-computing node | Social capital + government (district sci-tech) | Computing operator (conceptual) | Energy, computing, security, operator confirmed | Concept → operation | High | Technical failure, compliance | Devices removable, space restored to public use | Computing open + security audit passed | Exit if no operator |
-| JZ-06 Physarum network deepening & recalculation | Government + university (designer) | University research team (conceptual) | Official boundary, road redline, real-coordinate alignment | Concept → ongoing research | Low | Official data long missing | Not landed as engineering; stays research-scope | Full recalculation once official data arrives | Keep "to be confirmed" if official data long unpublished |
+**JZ-01 Jing-Zhang Heritage Park slow-gap stitching**
+- Spatial anchor: both sides of the Jing-Zhang Railway Heritage Park (Phase I), the Jing-Zhang Railway × slow-loop crossing segment (provisional)
+- Stage: near-term (pilot)
+- Core action: stitch slow-travel gaps; add accessible ramps and bilingual wayfinding; restore a continuous walking path
+- Responsible type: street coordination + park operator (type only, no specific names)
+- Main risk: multiple property interfaces (railway/park/municipal) require further verification
+- Acceptance direction: continuous-walking accessibility improvement, assessed once a current-state baseline is set
+- Conceptual cost: medium (conceptual estimate only)
 
-![Renewal-project full-field matrix (6 projects × 9 fields, conceptual)](assets/figures/project_matrix.png)
+**JZ-02 Zhongzhiyuan Qinghe innovation interface**
+- Spatial anchor: Zhongzhiyuan's Qinghe riverfront segment (north wing, south of the Qinghe blue line; provisional)
+- Stage: mid-term
+- Core action: waterfront blue-green connection + low-impact-development stormwater system + flood-resilience retrofit
+- Responsible type: district water authority + park (type only, no specific names)
+- Main risk: exit if the river blue line or flood conditions are unmet
+- Acceptance direction: blue-green corridor connected + stormwater-resilience targets met, once baseline is set
+- Conceptual cost: medium (conceptual estimate only)
 
-The figure above visualizes the nine-field matrix, enabling quick review of each project's responsible entity, risk, reversible measure, and stop condition; the fields are all conceptual suggestions, and responsible entities are written only as entity types, never fabricated names [depth:renewal_project_list].
+**JZ-03 Yuan Dian community campus-facing conversion street**
+- Spatial anchor: the Beijing AI Yuan Dian Community campus–park interface (central zone; provisional)
+- Stage: near-term
+- Core action: activate ground-floor programs + bring conversion space into use
+- Responsible type: university + district sci-tech authority (type only, no specific names)
+- Main risk: pause if campus-boundary or ground-floor ownership disputes are unresolved
+- Acceptance direction: conversion space activated + ground-floor ownership cleared
+- Conceptual cost: medium (conceptual estimate only)
+
+**JZ-04 Dazhongsi Station four-quadrant walking connectivity**
+- Spatial anchor: the Dazhongsi Station Line 13 / Line 12 interchange node, four quadrants (station catchment)
+- Stage: mid-term
+- Core action: four-quadrant walking connection + accessible interchange + station integration
+- Responsible type: rail operator + district transport authority (type only, no specific names)
+- Main risk: station retrofit timing and municipal utility relocation uncertainty
+- Acceptance direction: four-quadrant walking connection + accessible interchange, once baseline is set
+- Conceptual cost: high (conceptual estimate only)
+
+**JZ-05 AI public service and edge-computing node**
+- Spatial anchor: the Dazhongsi AI Industry Cluster gateway (south zone, adjacent to Dazhongsi Station; provisional)
+- Stage: long-term (governance)
+- Core action: deploy edge-computing nodes, open public services, pass security compliance audit
+- Responsible type: district sci-tech authority + operator (type only, no specific names)
+- Main risk: exit if energy/computing/security/operator is absent
+- Acceptance direction: computing service open + security compliance audit passed
+- Conceptual cost: high (conceptual estimate only)
+
+**JZ-06 Physarum network deepening and on-site recalculation**
+- Spatial anchor: along the conceptual network's main vein ROAD-001 (site-wide, pending official boundary and road-redline alignment)
+- Stage: long-term (ongoing research)
+- Core action: full recalculation and layer update once official data arrives
+- Responsible type: designer + university (type only, no specific names)
+- Main risk: official data long missing; keep a "to be confirmed" caveat
+- Acceptance direction: full recalculation passed once official data arrives
+- Conceptual cost: low / unknown (research-scope; conceptual estimate only)
 
 ## Rights and Source Audit Table (source & license)
 

diff --git a/submissions/927420095-bot/dazhongsi-physarum-network/proposal.md b/submissions/927420095-bot/dazhongsi-physarum-network/proposal.md
@@ -691,19 +691,19 @@ scenarios: ["ai-traffic-walkability", "enterprise-service-copilot", "public-safe
 
 > 诚实声明：以下年度活动、开发者社区、治理架构、KPI 与转化漏斗均为**概念建议 / 建议性框架**，频率、规模、预算与转化率均为示意，非已举办活动、非已建立治理主体或锁定资金来源 [depth:phasing_implementation]。
 
-**年度活动（概念建议）**：「京张铁路文化节」（年度，公众开放）、「黏菌算法公开工作坊」（季度，面向开发者与高校）、「开发者大会」（年度，路演与发布）；频率、规模与预算框架为建议性，无既有主办方或日期承诺。
+**年度活动框架（概念建议）**：年度开发者大会（1 次/年，路演与发布）、季度场景开放日（4 次/年，面向开发者/高校/公众）、月度社区工作坊（12 次/年，共建共议）；频率、规模与预算为建议性，无既有主办方或日期承诺。
 
 **开发者社区（概念建议）**：开源贡献指南、算力补贴、免费工位（限定孵化期）；为概念建议，具体规则与补贴额度待运营主体确认。
 
-**治理架构（概念建议）**：三方共治（政府 + 企业 + 社区），决策机制为「共识 + 专家顾问」，资金来源框架为建议性（财政 + 更新专项资金 + 社会资本 + 绿色债券，待确认）。
+**治理架构（概念建议）**：发起方为政府（类型）、执行方为专业运营主体（类型）、监督方为社区与专家顾问（类型），三方共治；决策机制为「共识 + 专家顾问」，资金来源框架为建议性（财政 + 更新专项资金 + 社会资本 + 绿色债券，待确认）。
 
-**KPI（概念框架）**：近期（开发者数、孵化团队数）、中期（企业落地、税收增量）、远期（品牌影响、模式输出）；具体指标值不预设。
+**KPI（概念框架，方向性）**：活动参与率（待基线）、场景响应时间、人工兜底率；中期（企业落地、税收增量）、远期（品牌影响、模式输出）；具体指标值不预设。
 
-**转化漏斗（概念框架）**：曝光 → 注册 → 测试 → 入驻 → 落地，每级转化率为概念示意（非实测）。
+**转化漏斗（概念框架）**：曝光 → 参与 → 场景试用 → 项目测试 → 合作意向 → 长期落地，每级转化率为概念示意（非实测）。
 
 ![长期运营转化漏斗图（概念框架）](assets/figures/operation_funnel.png)
 
-上图把「曝光—注册—测试—入驻—落地」五级转化关系可视化，转化率为概念示意；KPI 与转化率的量化基线待运营阶段实测后确定，本方案不预设数值。
+上图把「曝光—参与—场景试用—项目测试—合作意向—长期落地」六级转化关系可视化，转化率为概念示意；KPI 与转化率的量化基线待运营阶段实测后确定，本方案不预设数值。
 
 ## 合规矩阵总览（agent.1–6 成果索引）
 
@@ -719,24 +719,65 @@ scenarios: ["ai-traffic-walkability", "enterprise-service-copilot", "public-safe
 | agent.6 文化/国际/活动/运营 | 双语导视 + elevator pitch + 年度活动 + 三方共治 | 「文化导视、国际叙事、年度活动与长期运营」 |
 | agent.7 无障碍增强（Round 5） | 四层架构 / 数据 Schema / 路由与派单引擎 / 部署框架 | 「无障碍智能治理与导航集成展望」+ 附录 A/B |
 
-## 六张更新项目实施卡（9 字段，概念建议）
+## 六张更新项目实施卡（极简实施卡，概念建议）
 
-> 本卡片为概念建议 / 参考方案 / 可供专业团队深化研究，不构成正式工程文件。
+> 本卡片为概念建议 / 参考方案，不构成正式工程文件；责任主体只写**单位类型**，不编造具体单位名称；道路/站口/节点名称均为 provisional 概念落位，待官方数据核实。
 
-以下 6 张实施卡补全项目管理 9 字段（责任主体类型、合作方、前置条件、阶段、资源等级、风险、可逆措施、验收指标、停止条件）。责任主体与合作方仅写**单位类型**，不编造具体单位名称；阶段/资源/风险为建议性 [depth:renewal_project_list] [depth:phasing_implementation]。
+以下 6 张实施卡给出每个项目的**空间锚点**（落在哪条路/站口/节点）、阶段、核心动作、责任类型、主要风险、验收方向与概念成本等级；均为建议性，具体以控规与主管部门批复为准 [depth:renewal_project_list] [depth:phasing_implementation]。
 
-| 项目 | 责任主体类型 | 合作方（类型） | 前置条件 | 阶段 | 资源等级 | 风险 | 可逆措施 | 验收指标 | 停止条件 |
-| --- | --- | --- | --- | --- | --- | --- | --- | --- | --- |
-| JZ-01 慢行断点缝合 | 政府（区交通委）+ 公园管理单位 | 市属市政建设单位（概念建议） | 道路红线、桥下空间许可、交通复核 | 概念研究→方案设计 | 中 | 权属争议、政策变动 | 临时连接设施可拆除，恢复原状 | 慢行连通 + 无障碍达标（GB 50763-2012） | 桥下空间权属无法落定即暂停 |
-| JZ-02 清河创新界面 | 政府（区水务局）+ 园区 | 水利设计单位（概念建议） | 河道蓝线、防洪评价、生态许可 | 概念研究→方案设计 | 中 | 防洪条件、资金超支 | 滨水设施可拆除，保留原始驳岸 | 蓝绿连通 + 雨洪韧性达标 | 防洪条件不满足即退出 |
-| JZ-03 近校成果转化街 | 政府（区科信局）+ 高校 | 高校 + 社会资本（概念建议） | 校区边界、权属、首层业态审批 | 概念研究→方案设计 | 中 | 权属争议、遗产争议 | 首层业态可恢复，不改变建筑结构 | 转化空间启用 + 首层清权 | 权属争议未决即暂停 |
-| JZ-04 大钟寺站四象限连通 | 国企（轨道运营单位）+ 政府 | 轨道公司 + 市政设计单位（概念建议） | 站点一体化方案、管线迁改、消防审查 | 概念研究→工程深化 | 高 | 审批不确定、管线冲突 | 分象限渐进实施，未实施象限保留现状 | 四象限连通 + 无障碍换乘 | 站点改造时序不匹配即顺延 |
-| JZ-05 端侧算力节点 | 社会资本 + 政府（区科信局） | 算力运营主体（概念建议） | 能源、算力、安全、运营主体确认 | 概念研究→运营 | 高 | 技术失效、安全合规 | 算力设备可拆除，空间恢复公共用途 | 算力开放 + 安全审计通过 | 运营主体缺位即退出 |
-| JZ-06 黏菌路网深化复算 | 政府 + 高校（设计方） | 高校科研团队（概念建议） | 官方边界、道路红线、真实坐标对齐 | 概念研究→持续研究 | 低 | 官方数据长期缺失 | 不落地为工程，保持研究口径 | 官方数据到位后全量复算 | 官方数据长期未发布即保持「待确认」 |
+**JZ-01 京张遗址公园慢行断点缝合**
+- 空间锚点：京张铁路遗址公园一期两侧（京张铁路与慢行环交叉段，provisional）
+- 阶段：近期（试点）
+- 核心动作：缝合慢行断点，增设无障碍坡道与双语导视，恢复连续步行路径
+- 责任类型：街道协调 + 公园管理单位（类型，不写具体单位）
+- 主要风险：涉及铁路/公园/市政多产权界面，需进一步核实
+- 验收方向：连续步行无障碍性改善，待现状基线确定后评估
+- 概念成本：中（conceptual estimate only）
 
-![更新项目完整字段矩阵图（6 项目 × 9 字段，概念）](assets/figures/project_matrix.png)
+**JZ-02 众智园清河创新界面**
+- 空间锚点：众智园临清河段（北翼，清河蓝线南侧，provisional）
+- 阶段：中期
+- 核心动作：滨水蓝绿贯通 + 低影响开发雨水系统 + 雨洪韧性改造
+- 责任类型：区水务局 + 园区（类型，不写具体单位）
+- 主要风险：河道蓝线与防洪条件不满足即退出
+- 验收方向：蓝绿廊道连通 + 雨洪韧性指标达标，待基线确定
+- 概念成本：中（conceptual estimate only）
 
-上图把上表 9 字段矩阵可视化，便于快速审阅各项目的责任主体、风险、可逆措施与停止条件；字段内容均为概念建议，责任主体仅写单位类型，不编造具体单位名称 [depth:renewal_project_list]。
+**JZ-03 原点社区近校成果转化街**
+- 空间锚点：北京AI原点社区校区-园区界面（中区，provisional）
+- 阶段：近期
+- 核心动作：首层业态活化 + 成果转化空间启用
+- 责任类型：高校 + 区科信局（类型，不写具体单位）
+- 主要风险：校区边界与首层权属争议未决则暂停
+- 验收方向：转化空间启用 + 首层业态清权
+- 概念成本：中（conceptual estimate only）
+
+**JZ-04 大钟寺站四象限步行连通**
+- 空间锚点：大钟寺站 13号线/12号线换乘节点四象限（站点辐射区）
+- 阶段：中期
+- 核心动作：四象限步行连通 + 无障碍换乘 + 站点一体化
+- 责任类型：轨道运营单位 + 区交通委（类型，不写具体单位）
+- 主要风险：站点改造时序与市政管线迁改不确定性
+- 验收方向：四象限步行连通 + 无障碍换乘达标，待基线确定
+- 概念成本：高（conceptual estimate only）
+
+**JZ-05 AI公共服务与端侧算力节点**
+- 空间锚点：大钟寺AI产业聚集区门户（南区，邻近大钟寺站，provisional）
+- 阶段：长期（治理）
+- 核心动作：部署端侧算力节点，开放公共服务，安全合规审计
+- 责任类型：区科信局 + 运营主体（类型，不写具体单位）
+- 主要风险：能源/算力/安全/运营主体缺位则退出
+- 验收方向：算力服务开放 + 安全合规审计通过
+- 概念成本：高（conceptual estimate only）
+
+**JZ-06 黏菌路网概念深化与真实场地复算**
+- 空间锚点：概念路网主静脉 ROAD-001 沿线（全场，待官方边界与道路红线对齐）
+- 阶段：长期（持续研究）
+- 核心动作：官方数据到位后全量复算并更新图层
+- 责任类型：设计方 + 高校（类型，不写具体单位）
+- 主要风险：官方数据长期缺失，保持「待确认」口径
+- 验收方向：官方数据到位后全量复算通过
+- 概念成本：低 / unknown（研究性，conceptual estimate only）
 
 ## 权利与来源审计表（agent 来源与许可）
 
